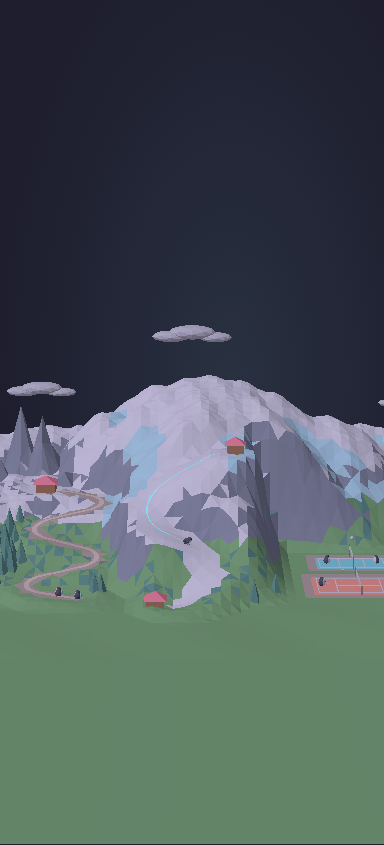
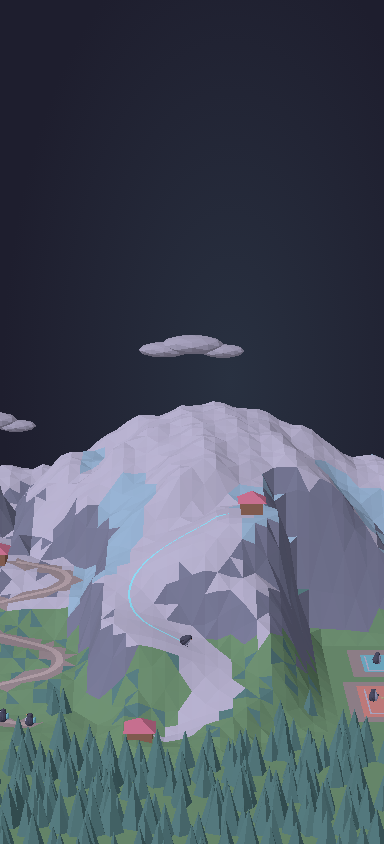
feat: fill the mobile Sport view and add the Mountains text (PORT-88)
Tighter, steeper portrait shots and a foreground forest remove the empty
meadow; both courts stay above the card. Provisional text with no new facts.

diff --git a/src/scripts/three/sport/shots.ts b/src/scripts/three/sport/shots.ts
@@ -14,39 +14,27 @@ export const shotsFor = (portrait: boolean): Record<string, Shot> => {
     const p = trackAt(path, t);
     return [p.x, heightAt(p.x, p.z) + height, p.z];
   };
-  const whole: Shot = {
-    // In verticale la montagna scende verso il centro: meno prato vuoto sotto.
-    target: [portrait ? 1 : 0, portrait ? 15 : 7, -2],
-    from: [0, 0.22, 1],
-    spanH: 24,
-    spanW: portrait ? 44 : 66,
-  };
+  // Schermo stretto: inquadrature piu strette e piu dall'alto, il terreno riempie anche il fondo.
+  if (portrait) {
+    const whole: Shot = { target: [1, 19, -2], from: [0, 0.22, 1], spanH: 24, spanW: 32 };
+    const courts: Shot['target'] = [TENNIS.x, 0.5, (TENNIS.z + VOLLEY.z) / 2];
+    return {
+      overview: whole,
+      ski: { target: on(skiTrack, 0.5, 0), from: [0.1, 0.8, 1], spanH: 15, spanW: 19 },
+      hiking: { target: on(trailTrack, 0.5, 1), from: [-0.3, 0.9, 1], spanH: 13, spanW: 14 },
+      // I due campi stanno insieme sopra la scheda, mai coperti.
+      tennis: { target: courts, from: [-0.05, 1.1, 1], spanH: 9, spanW: 21 },
+      volleyball: { target: courts, from: [0.05, 1.1, 1], spanH: 9, spanW: 20 },
+      exit: whole,
+    };
+  }
+  const whole: Shot = { target: [0, 7, -2], from: [0, 0.22, 1], spanH: 24, spanW: 66 };
   return {
     overview: whole,
-    ski: {
-      target: on(skiTrack, 0.5, 1),
-      from: [0.12, 0.35, 1],
-      spanH: portrait ? 15 : 22,
-      spanW: portrait ? 21 : 36,
-    },
-    hiking: {
-      target: on(trailTrack, 0.5, 1),
-      from: [-0.45, 0.35, 1],
-      spanH: 13,
-      spanW: portrait ? 10 : 20,
-    },
-    tennis: {
-      target: [TENNIS.x, 0.5, TENNIS.z],
-      from: [-0.15, 0.7, 1],
-      spanH: 9,
-      spanW: portrait ? 14 : 22,
-    },
-    volleyball: {
-      target: [VOLLEY.x, 0.5, VOLLEY.z],
-      from: [0.15, 0.7, 1],
-      spanH: 8,
-      spanW: portrait ? 12 : 18,
-    },
+    ski: { target: on(skiTrack, 0.5, 1), from: [0.12, 0.35, 1], spanH: 22, spanW: 36 },
+    hiking: { target: on(trailTrack, 0.5, 1), from: [-0.45, 0.35, 1], spanH: 13, spanW: 20 },
+    tennis: { target: [TENNIS.x, 0.5, TENNIS.z], from: [-0.15, 0.7, 1], spanH: 9, spanW: 22 },
+    volleyball: { target: [VOLLEY.x, 0.5, VOLLEY.z], from: [0.15, 0.7, 1], spanH: 8, spanW: 18 },
     exit: whole,
   };
 };

diff --git a/src/scripts/three/sport/terrain.ts b/src/scripts/three/sport/terrain.ts
@@ -29,6 +29,8 @@ export interface Court extends Point {
   width: number;
 }
 
+/** Da qui verso la camera il prato piano ha qualche albero. */
+const FRONT_Z = 19;
 /** Campi su un ripiano a quota 0, bordi allineati alla griglia (colorano facce intere). */
 export const TENNIS: Court = { x: 19, z: 12, length: 10, width: 6 };
 export const VOLLEY: Court = { x: 19, z: 4, length: 8, width: 4 };
@@ -510,16 +512,27 @@ export function terrainBuffers(pal: TerrainPalette): {
     if (Math.abs(x - SHELF.x) < SHELF.hx + 1 && Math.abs(z - SHELF.z) < SHELF.hz + 1) return false;
     return HUTS.every(([c]) => Math.hypot(x - c.x, z - c.z) > 3.5);
   };
-  for (let j = 4; j < NZ - 8; j += 1) {
+  for (let j = 4; j < NZ; j += 1) {
     for (let i = 8; i < NX - 8; i += 1) {
       if (hash(i, j) > 0.5) continue;
       const x = X0 + i + 0.5 + (hash(j, i) - 0.5) * 0.7;
       const z = Z0 + j + 0.5 + (hash(i + 7, j) - 0.5) * 0.7;
       const y = heightAt(x, z);
       const steep = Math.hypot(heightAt(x + 0.6, z) - y, heightAt(x, z + 0.6) - y) / 0.6;
-      if (y < 0.4 || y > 5.2 - hash(j, i + 3) * 1.2 || steep > 0.75 || !clear(x, z, i, j)) continue;
+      // Sul prato piano solo davanti ai campi: un bosco basso che chiude il primo piano.
+      const skip = y < 0.4 && (z < FRONT_Z || hash(i + 5, j) > 0.7);
+      if (skip || y > 5.2 - hash(j, i + 3) * 1.2 || steep > 0.75 || !clear(x, z, i, j)) continue;
       const s = 0.8 + hash(i + 3, j + 5) * 0.5;
       cone(pal.forest, x, z, low(x, z, 0.7 * s) - 0.1, 0.75 * s, 2.5 * s, 5, hash(i, j + 9) * 6);
+    }
+  }
+  // Oltre la griglia il bosco continua sul prato: l'inquadratura verticale arriva fin qui.
+  for (let j = 0; j < 16; j += 1) {
+    for (let i = 0; i < 40; i += 1) {
+      if (hash(i + 11, j) > 0.55) continue;
+      const x = -30 + i * 1.7 + hash(j, i + 2);
+      const z = Z0 + NZ + 1 + j * 1.7 + hash(i + 2, j);
+      cone(pal.forest, x, z, -0.1, 0.8, 2.6, 5, hash(i, j) * 6);
     }
   }
   return { positions: P.slice(0, n), colors: C.slice(0, n) };
